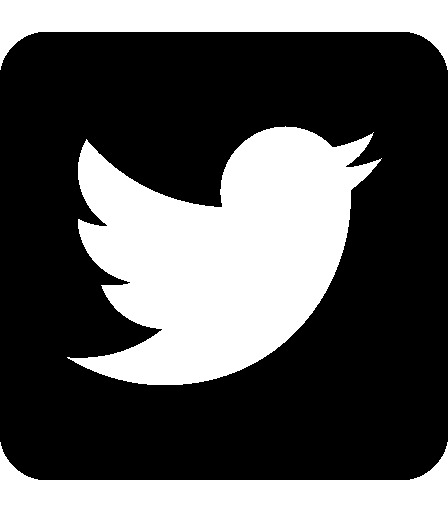
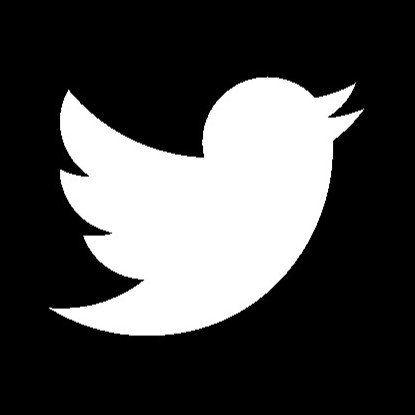
""

Changed region(s): [[0.1157, 0.1735, 0.8675, 0.8096], [0.0, 0.8675, 1.0, 1.0], [0.0, 0.0, 1.0, 0.1446]]

diff --git a/index.html b/index.html
@@ -130,6 +130,10 @@
                 </div>
             </section>
         </div>
-        <footer> <!--footer--> </footer>
+        <footer>
+            <div class="sns"></div>
+                <a href=""><img class="sns-icon" src="./picture/twitter_icon.jpg" alt="twitter"></a>
+                <a href=""></a>
+        </footer>
     </body>
 </html>

diff --git a/top_pc.css b/top_pc.css
@@ -159,4 +159,13 @@ footer{
     height: 80px;
     width: 100%;
     background-color: gainsboro;
+    display: flex;
+}
+div.sns{
+    margin-left: auto;
+    margin-right: auto;
+}
+img.sns-icon{
+    height: 70px;
+    
 }
